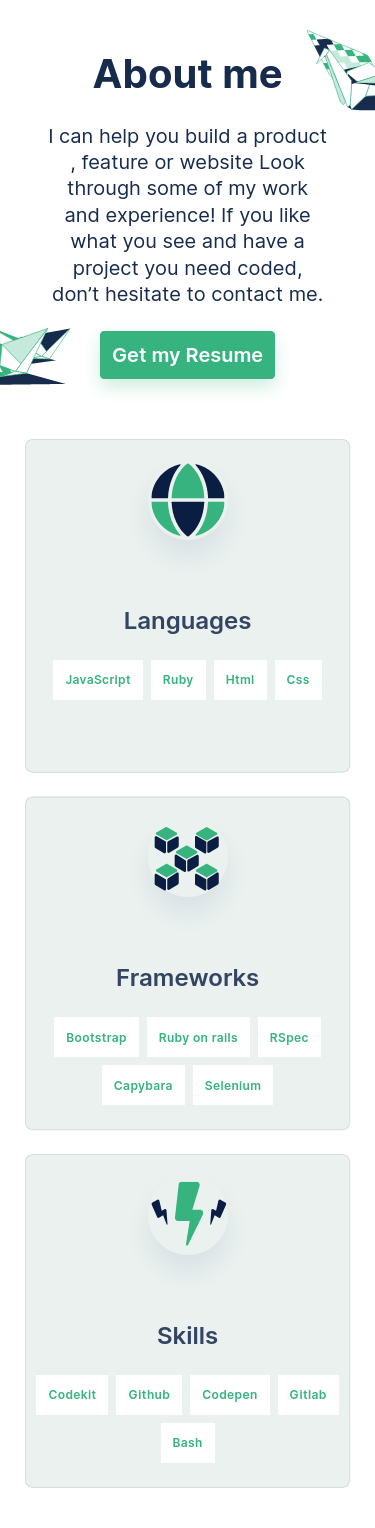
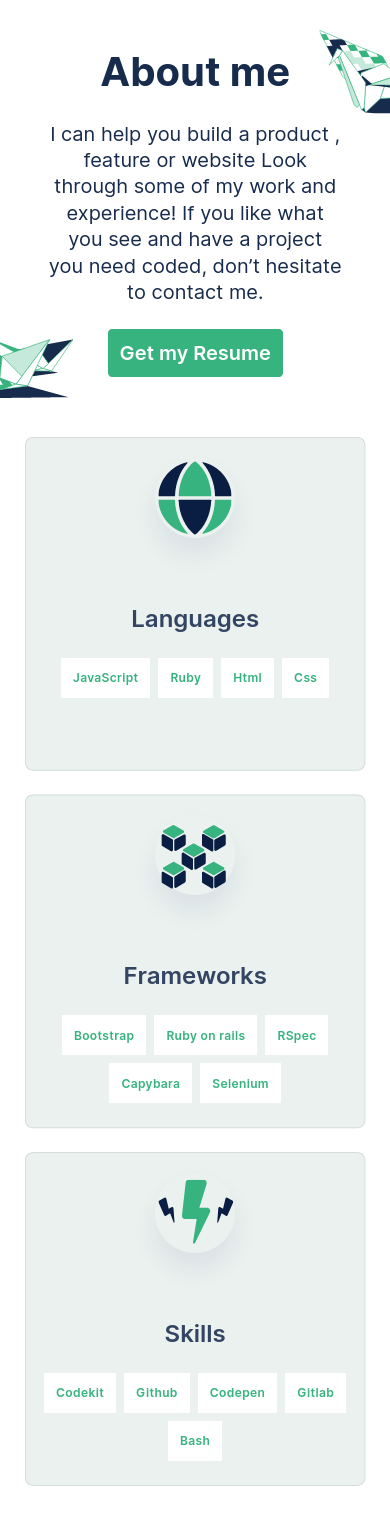
Add contact me section screenshot to README.md

diff --git a/style.css b/style.css
@@ -348,15 +348,13 @@ nav {
 /* ||contact-form--------------------------------------------- */
 .contact-form {
   margin-top: calc(60px - 30px);
-  display: grid;
-  grid-template-rows: auto auto;
+  display: flex;
+  flex-direction: column;
   gap: 24px;
   background-image: url(./resources/illustration-contact-form.svg);
   background-repeat: no-repeat;
   background-size: 25% 25%;
-  background-position: right -30px bottom 250px;
-  align-items: center;
-  justify-items: center;
+  background-position: right -10px bottom 250px;
 }
 
 .contact-form > * {

diff --git a/index.html b/index.html
@@ -7,7 +7,7 @@
   <meta name="viewport"
     content="width=device-width, initial-scale=1.0">
   <link rel="stylesheet" href="style.css">
-  <title>Portfolio</title>
+  <title>My Portfolio</title>
 </head>
 
 <body>
@@ -208,7 +208,7 @@
   </Main>
   <footer class="contact-form">
     <div class="footer-text">
-      <h2 class="title">contact-me</h2>
+      <h2 class="title">Contact Me</h2>
       <p class="supporting-text">I can help you build a
         product , feature or website Look
         through some of my work and experience! If you

diff --git a/README.md b/README.md
@@ -9,9 +9,9 @@
 <details>
   <summary>Please click to view more sections</summary>
   
-Works section     |About me section
-:----------------:|:-------------------------:|
-![](./resources/app-screenshot-works-section.png)    |  ![](./resources/app-screenshot-about-me-section.png) 
+Works section     |About me section |Contact me section
+:----------------:|:-------------------------:|:------------------------------:
+![](./resources/app-screenshot-works-section.png)    |  ![](./resources/app-screenshot-about-me-section.png)  | ![](./resources/app-screenshot-contact-me-section.png) 
 </details>
 
 ## Built With
